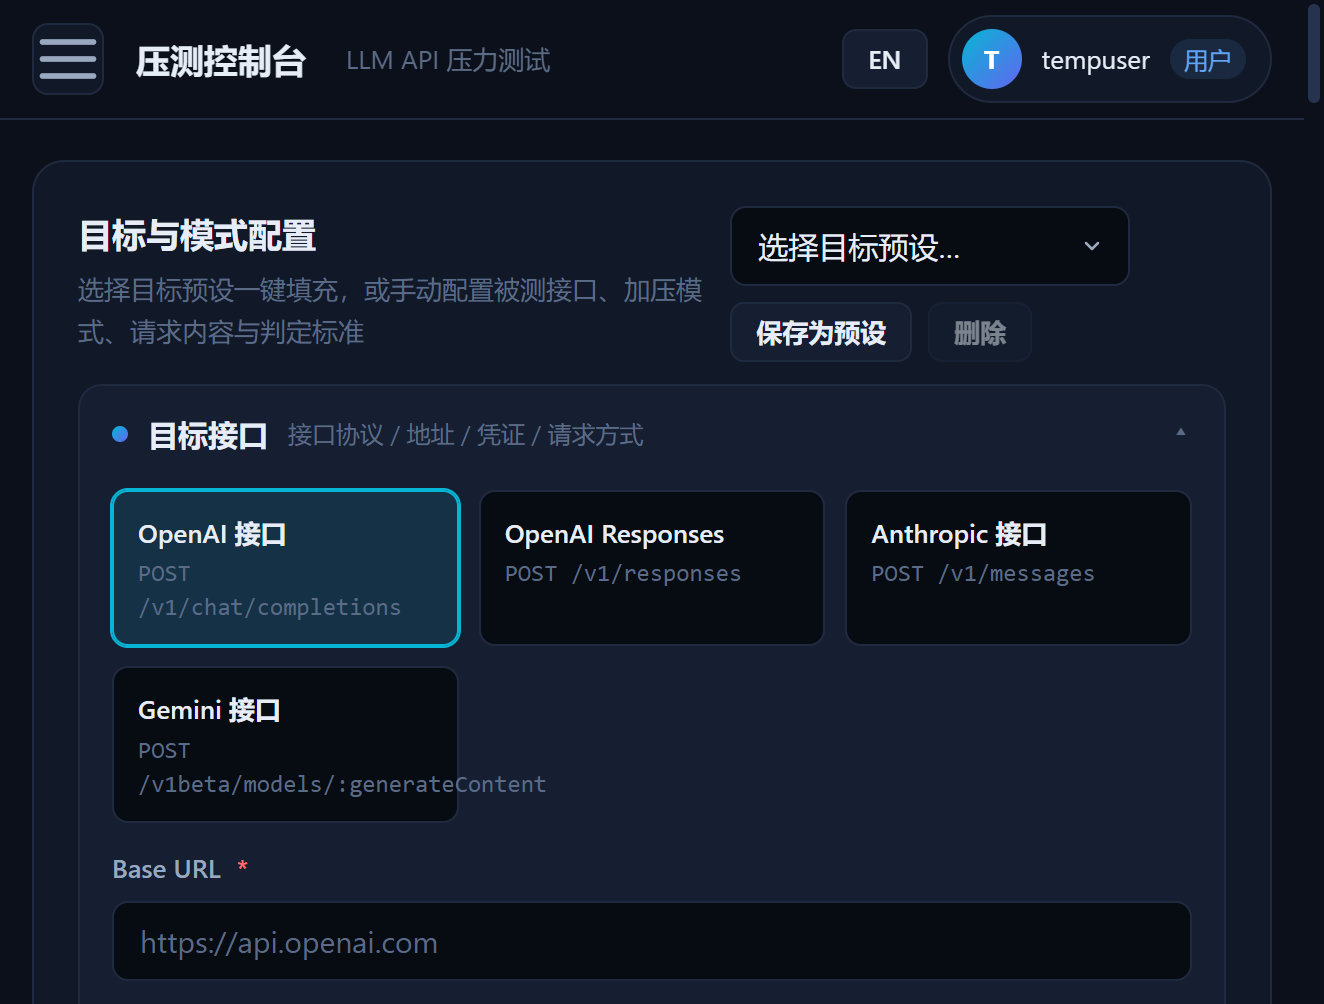
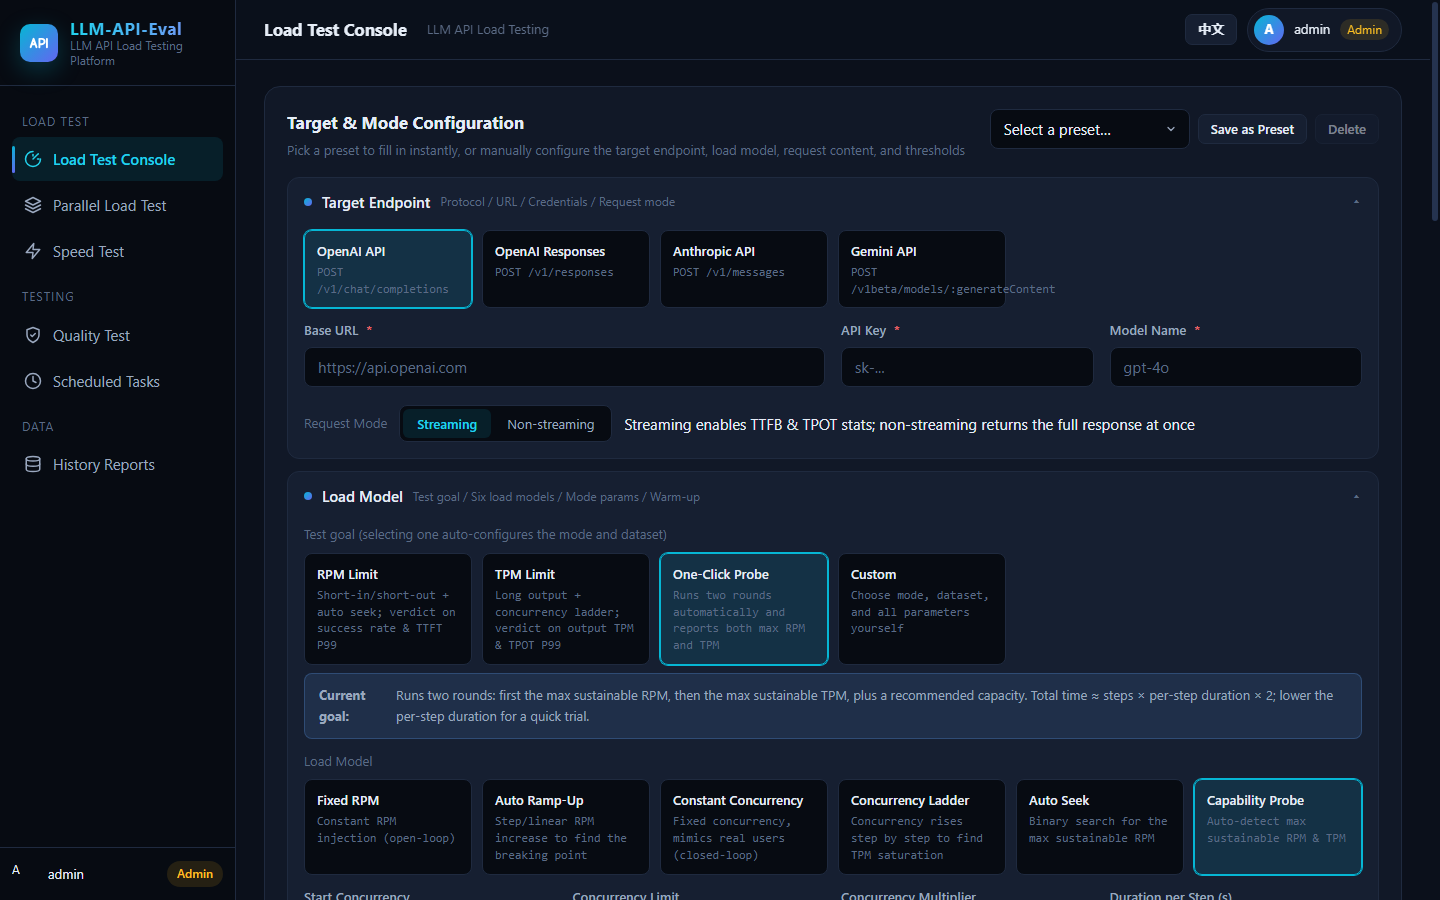
docs: README 截图换为英文功能特写（加压模式/并行压测/质量检查项）

diff --git a/README.md b/README.md
@@ -10,15 +10,15 @@ A stress-testing and evaluation platform for LLM APIs. Configure the target endp
 
 ## Screenshots
 
-**Load Test Console** — six load modes, live metrics, cost estimation, and a one-click connectivity pre-check
+**Target & Load Model Configuration** — four API protocols, four test goals, and six load models, all in one console
 
-![Load Test Console](docs/screenshots/dashboard.png)
+![Target & Load Model Configuration](docs/screenshots/dashboard.png)
 
-**Parallel Load Test** — up to 5 configurations racing side by side, and **Quality Test** — dual-run blind scoring
+**Parallel Load Test** — up to 5 configurations racing side by side, and **Quality Checks** — 16 capability checks in one grid
 
 <p align="center">
   <img src="docs/screenshots/parallel.png" width="49%" alt="Parallel Load Test">
-  <img src="docs/screenshots/quality.png" width="49%" alt="Quality Test">
+  <img src="docs/screenshots/quality.png" width="49%" alt="Quality Checks">
 </p>
 
 ## Features

diff --git a/README-zh.md b/README-zh.md
@@ -10,15 +10,15 @@
 
 ## 界面预览
 
-**压测控制台** — 六种加压模式、实时指标、成本估算与一键连通性预检
+**目标与加压模式配置** — 四种接口协议、四类测试目标、六种加压模型，一个控制台全部搞定
 
-![压测控制台](docs/screenshots/dashboard.png)
+![目标与加压模式配置](docs/screenshots/dashboard.png)
 
-**并行对比压测** — 最多 5 组配置同屏竞速 · **模型质量评估** — 双份对照盲评
+**并行对比压测** — 最多 5 组配置同屏竞速 · **质量检查项** — 16 项能力检查一键开测
 
 <p align="center">
   <img src="docs/screenshots/parallel.png" width="49%" alt="并行对比压测">
-  <img src="docs/screenshots/quality.png" width="49%" alt="模型质量评估">
+  <img src="docs/screenshots/quality.png" width="49%" alt="质量检查项">
 </p>
 
 ## 功能总览
